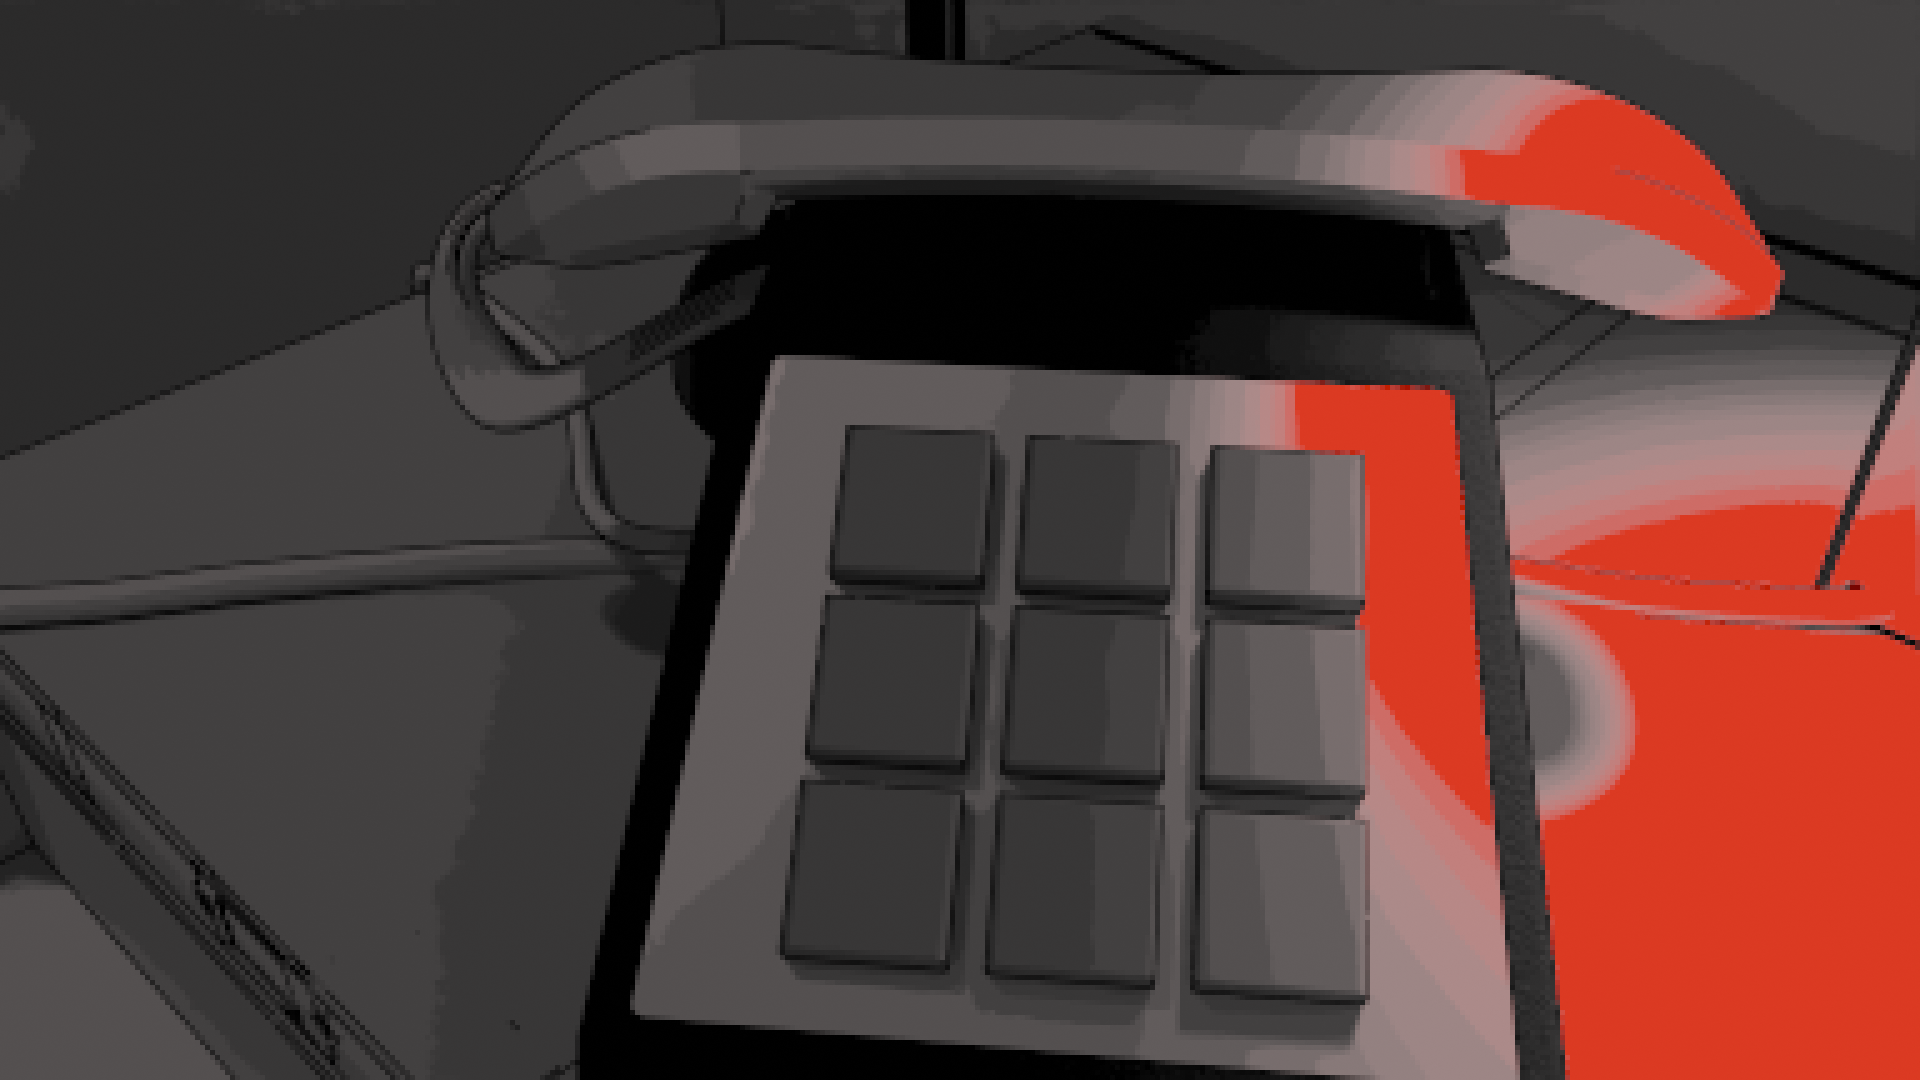
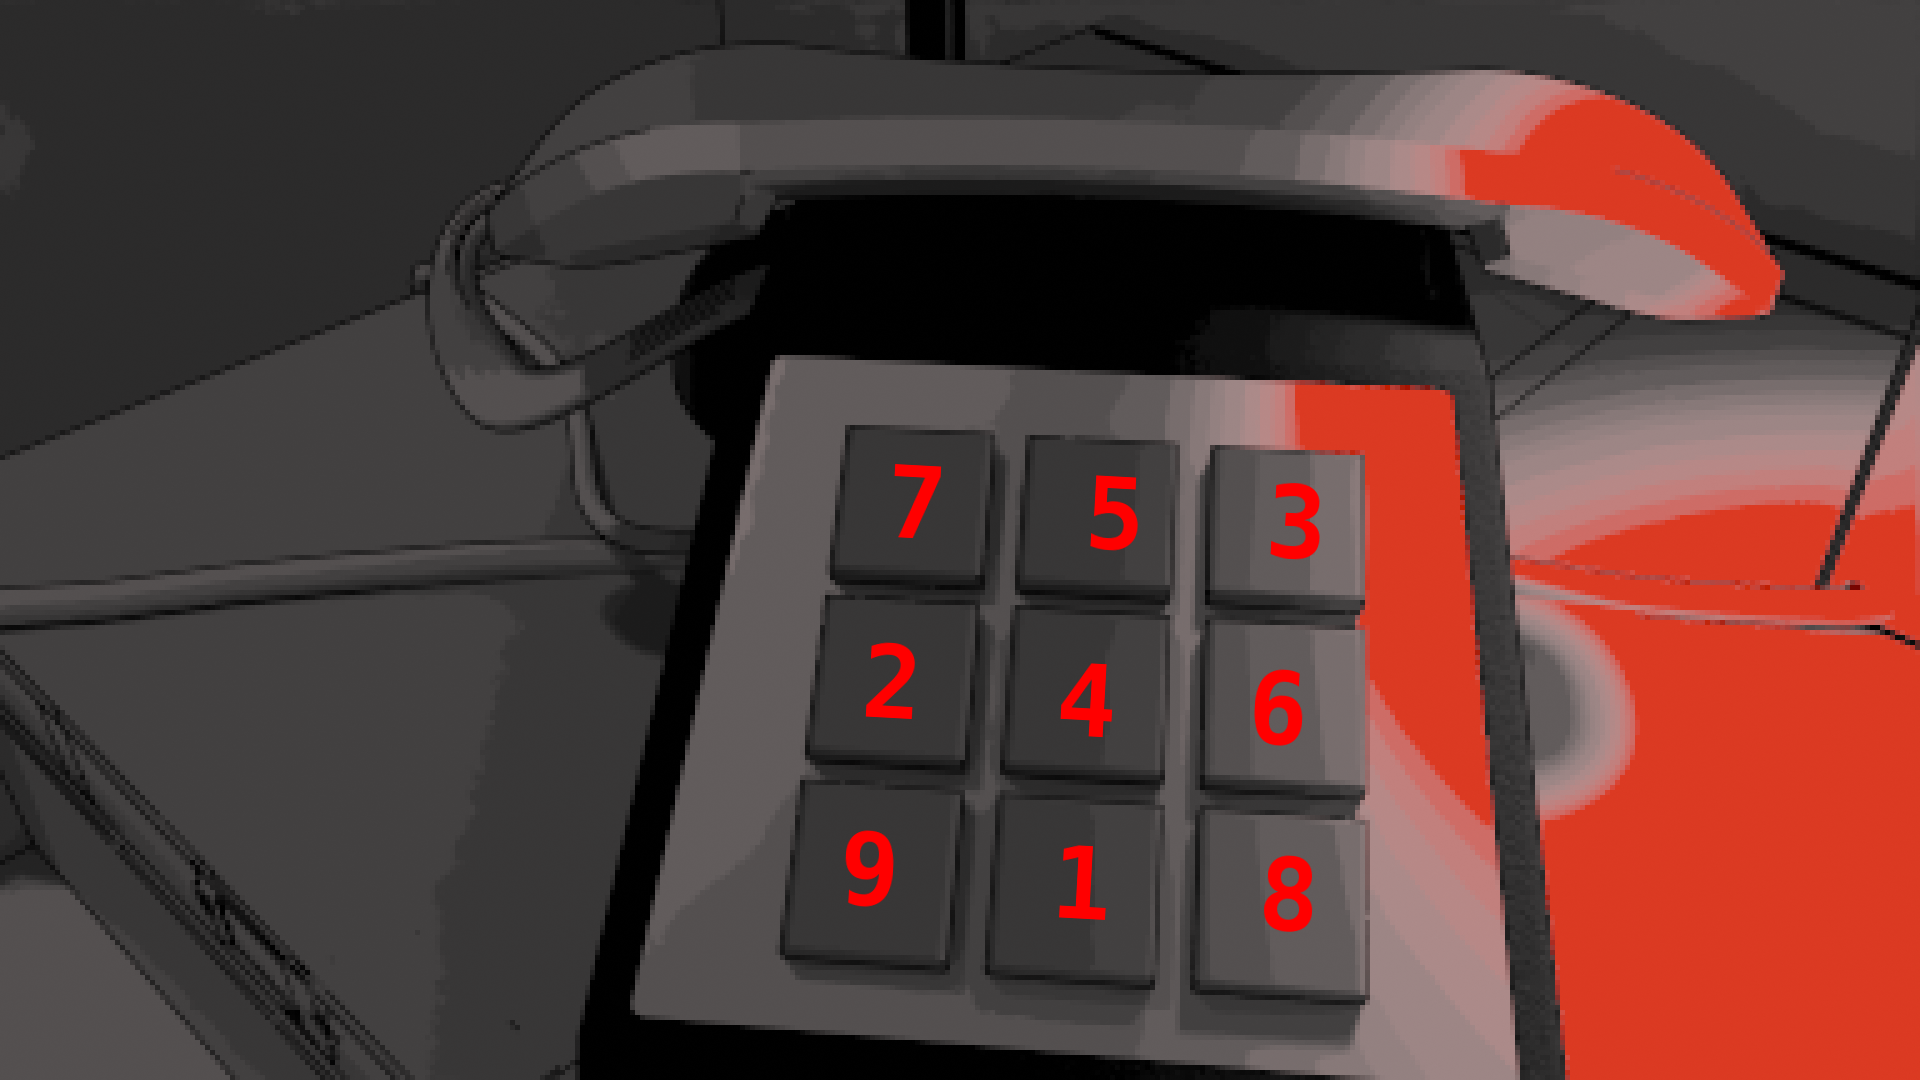
Add wincon

diff --git a/src/scenes/phone.rs b/src/scenes/phone.rs
@@ -1,0 +1,100 @@
+use bevy::prelude::*;
+
+use crate::{
+    components::{ClickableArea, ClickableShape, Rectangle},
+    gamedata::SceneId,
+    input::MousePosition,
+    player::{LightbulbColor, LoadScene, Player, SceneItem},
+};
+
+const BUTTONS: [Vec2; 9] = [
+    Vec2::new(-41.0, 30.0),
+    Vec2::new(142.0, 35.0),
+    Vec2::new(329.0, 28.0),
+    Vec2::new(-74.0, -138.0),
+    Vec2::new(134.0, -141.0),
+    Vec2::new(333.0, -159.0),
+    Vec2::new(-91.0, -345.0),
+    Vec2::new(135.0, -345.0),
+    Vec2::new(327.0, -356.0),
+];
+
+#[derive(Component)]
+pub struct Button(usize);
+
+fn load_scene(
+    mut commands: Commands,
+    player: Res<Player>,
+    asset_server: Res<AssetServer>,
+    mut load_scene: EventReader<LoadScene>,
+) {
+    for load_scene in load_scene.read() {
+        if load_scene.0 == SceneId::Phone {
+            if let Some(LightbulbColor::Red) = player.installed_lightbulb {
+                commands.spawn((
+                    SpriteBundle {
+                        texture: asset_server.load("images/scenes/phone_red.png"),
+                        transform: Transform::from_xyz(0.0, 0.0, 3.0),
+                        ..Default::default()
+                    },
+                    SceneItem(SceneId::Phone),
+                ));
+
+                for (index, button) in BUTTONS.iter().enumerate() {
+                    commands.spawn((
+                        ClickableShape::Rectangle(Rectangle::from_pos_width_height(
+                            Vec2::new(button.x, button.y),
+                            50.0,
+                            50.0,
+                        )),
+                        Button(index),
+                        SceneItem(SceneId::Phone),
+                    ));
+                }
+            }
+        }
+    }
+}
+
+fn update(
+    mut commands: Commands,
+    asset_server: Res<AssetServer>,
+    mut player: ResMut<Player>,
+    mouse_pos: Res<MousePosition>,
+    mouse_button: Res<ButtonInput<MouseButton>>,
+    buttons: Query<(&ClickableShape, &Button)>,
+) {
+    if !mouse_button.just_pressed(MouseButton::Left) {
+        return;
+    }
+
+    for button in buttons.iter() {
+        if button.0.contains(mouse_pos.0) {
+            player.dialed_numbers.push(button.1 .0);
+        }
+
+        if player.dialed_numbers.len() > 9 {
+            player.dialed_numbers.remove(0);
+        }
+
+        let solution = vec![8, 5, 3, 1, 7, 6, 0, 2, 5];
+
+        let matching = player
+            .dialed_numbers
+            .iter()
+            .zip(&solution)
+            .filter(|&(a, b)| a == b)
+            .count();
+        if matching == 9 {
+            commands.spawn((SpriteBundle {
+                texture: asset_server.load("images/scenes/universe_saved.png"),
+                transform: Transform::from_xyz(0.0, 0.0, 20.0),
+                ..Default::default()
+            },));
+        }
+    }
+}
+
+pub fn plugin(app: &mut App) {
+    app.add_systems(Update, (load_scene, update));
+}

diff --git a/src/player.rs b/src/player.rs
@@ -33,6 +33,7 @@ pub struct Background0;
 #[derive(Component)]
 pub struct Background1;
 
+#[derive(Copy, Clone)]
 pub enum LightbulbColor {
     Green,
     Red,
@@ -44,6 +45,7 @@ pub struct Player {
     pub behind_puzzle_state: [usize; 6],
     pub keypad_drawer_puzzle_state: [usize; 3],
     pub lightbulb_unlock: Option<LightbulbColor>,
+    pub installed_lightbulb: Option<LightbulbColor>,
     pub right_speaker_broken: bool,
     pub has_surge_protector: bool,
     pub has_installed_surge_protector: bool,
@@ -51,6 +53,7 @@ pub struct Player {
     pub has_installed_morse_code_translator: bool,
     pub has_key: bool,
     pub opened_key_drawer: bool,
+    pub dialed_numbers: Vec<usize>,
 }
 
 impl Player {
@@ -60,6 +63,7 @@ impl Player {
             behind_puzzle_state: [0; 6],
             keypad_drawer_puzzle_state: [0; 3],
             lightbulb_unlock: None,
+            installed_lightbulb: None,
             right_speaker_broken: false,
             has_surge_protector: false,
             has_installed_surge_protector: false,
@@ -67,6 +71,7 @@ impl Player {
             has_installed_morse_code_translator: false,
             has_key: false,
             opened_key_drawer: false,
+            dialed_numbers: vec![],
         }
     }
 }

diff --git a/src/scenes/lamp.rs b/src/scenes/lamp.rs
@@ -1,10 +1,30 @@
 use bevy::prelude::*;
 
-use crate::{gamedata::SceneId, player::LoadScene};
+use crate::{
+    gamedata::SceneId,
+    player::{LightbulbColor, LoadScene, Player, SceneItem},
+};
 
-fn load_scene(mut commands: Commands, mut load_scene: EventReader<LoadScene>) {
+fn load_scene(
+    mut commands: Commands,
+    mut player: ResMut<Player>,
+    asset_server: Res<AssetServer>,
+    mut load_scene: EventReader<LoadScene>,
+) {
     for load_scene in load_scene.read() {
-        if load_scene.0 == SceneId::Lamp {}
+        if load_scene.0 == SceneId::Lamp {
+            player.installed_lightbulb = player.lightbulb_unlock;
+            if let Some(LightbulbColor::Red) = player.installed_lightbulb {
+                commands.spawn((
+                    SpriteBundle {
+                        texture: asset_server.load("images/scenes/lamp_red.png"),
+                        transform: Transform::from_xyz(0.0, 0.0, 3.0),
+                        ..Default::default()
+                    },
+                    SceneItem(SceneId::Lamp),
+                ));
+            }
+        }
     }
 }
 

diff --git a/src/scenes/behind.rs b/src/scenes/behind.rs
@@ -36,9 +36,9 @@ fn load_scene(
         if load_scene.0 == SceneId::Behind {
             commands.spawn((
                 ClickableShape::Rectangle(Rectangle::from_pos_width_height(
-                    Vec2::new(0.0, 0.0),
-                    50.0,
-                    50.0,
+                    Vec2::new(-537.0, -37.0),
+                    300.0,
+                    600.0,
                 )),
                 RestartUniverseButton,
                 SceneItem(SceneId::Behind),
@@ -125,7 +125,7 @@ fn update_universe_button(
         if button.contains(mouse_pos.0) {
             // TODO: Wire up other reset logic here
             *player = Player::new();
-            player.scene = SceneState::Transitioning(SceneId::Behind, SceneId::Desk, 0);
+            player.scene = SceneState::ForceTransition(SceneId::Behind, SceneId::Desk);
             reset_universe.send(ResetUniverse);
         }
     }

diff --git a/src/scenes/mod.rs b/src/scenes/mod.rs
@@ -10,6 +10,7 @@ mod lamp;
 mod lock_drawer;
 mod lock_drawer_solved;
 mod radio;
+mod phone;
 mod tv;
 
 pub fn plugin(app: &mut App) {
@@ -24,5 +25,6 @@ pub fn plugin(app: &mut App) {
         tv::plugin,
         desk::plugin,
         radio::plugin,
+        phone::plugin
     ));
 }
